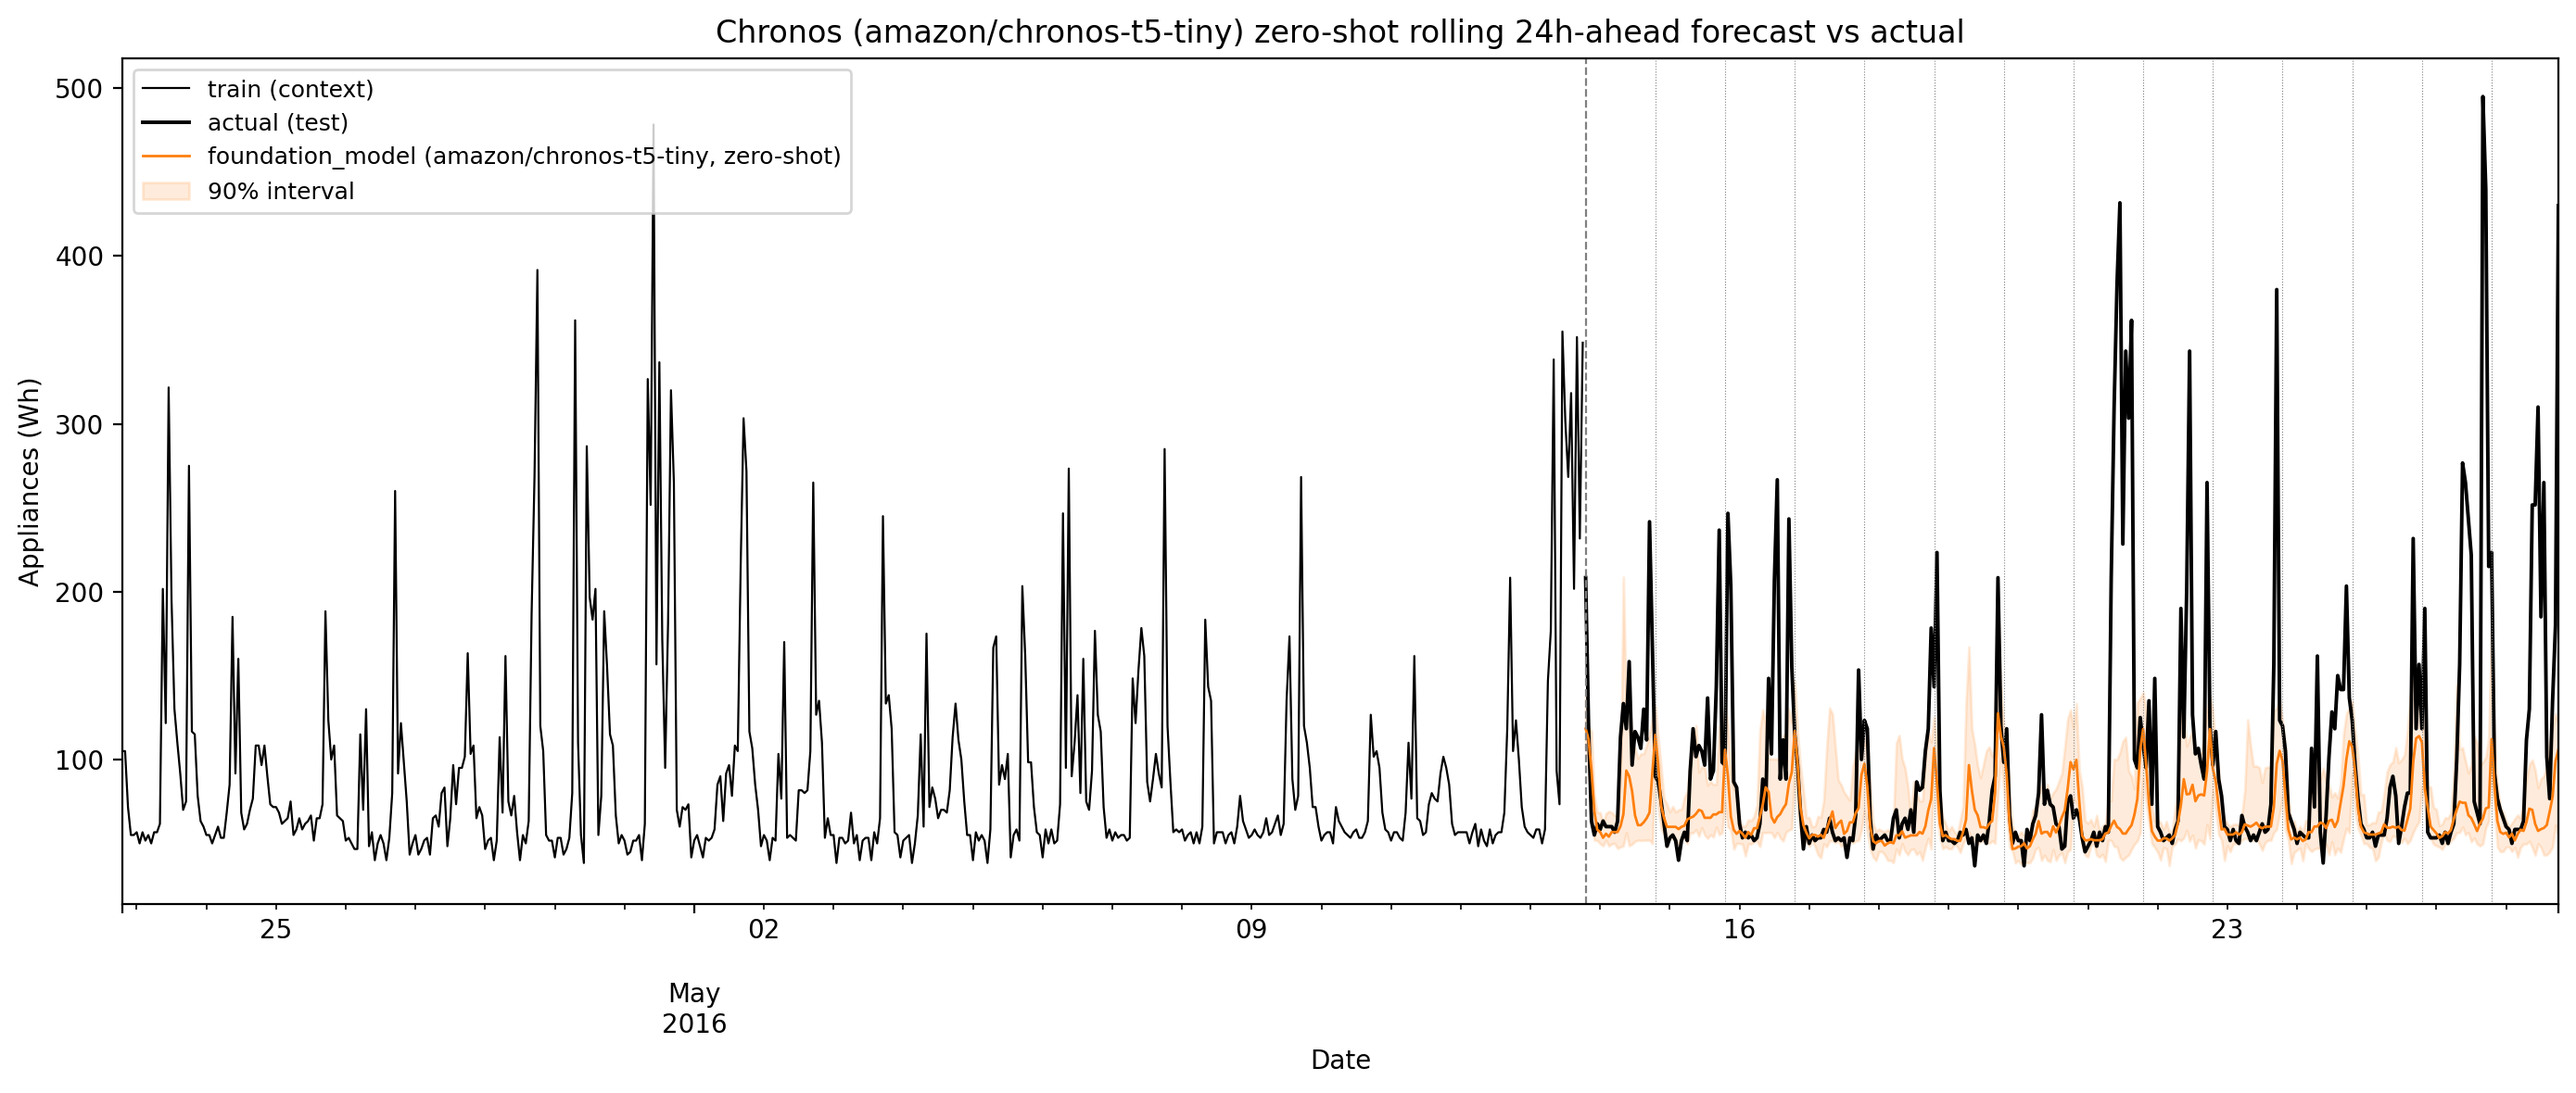
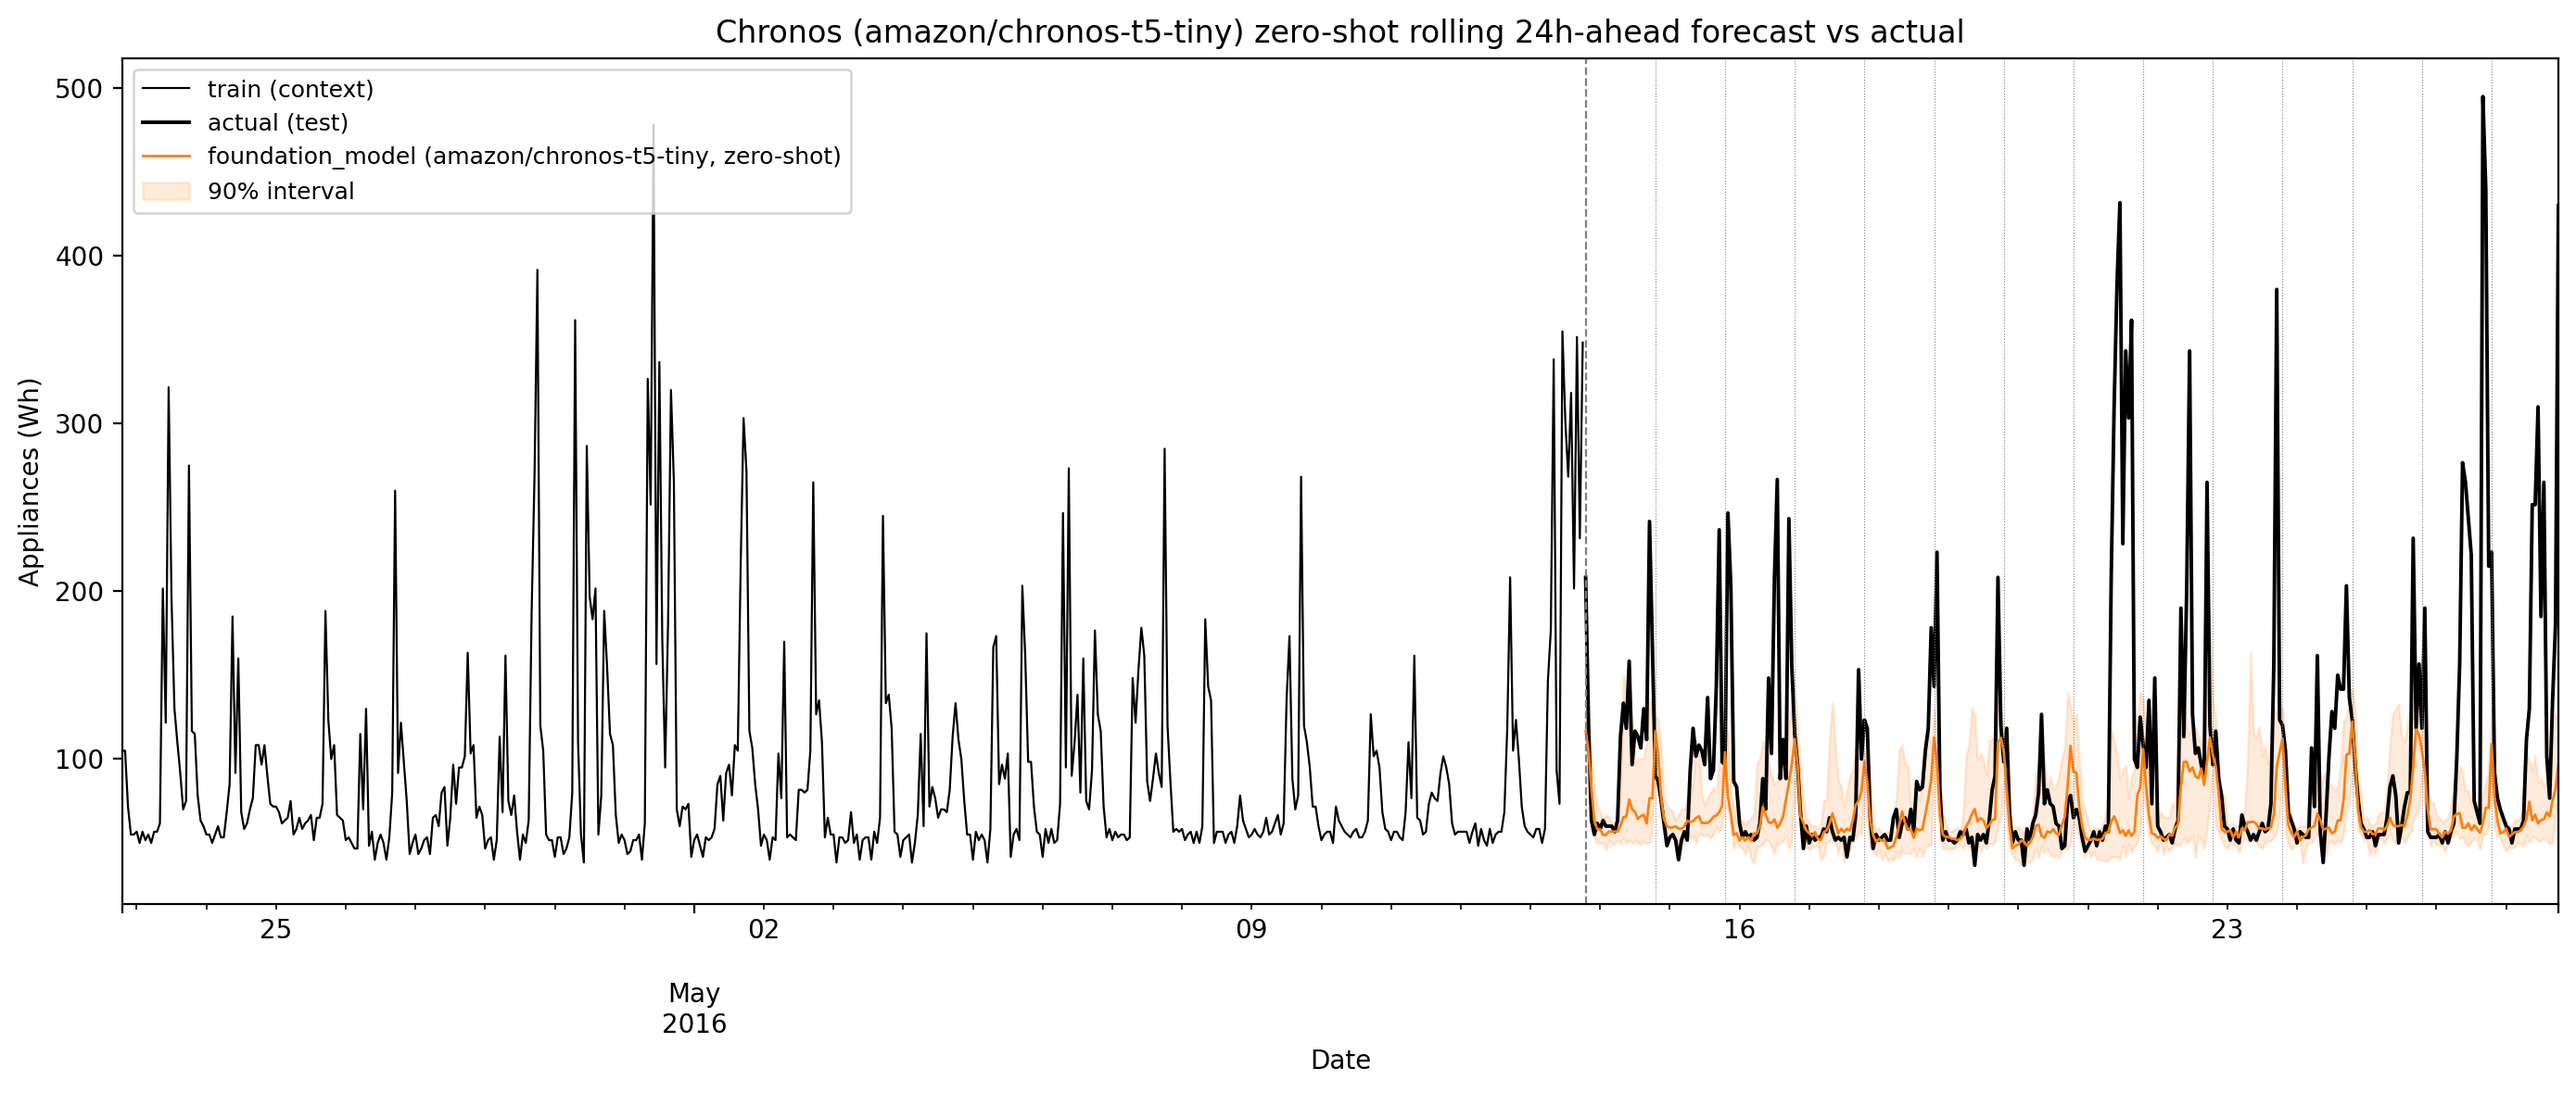
Part 8: full model comparison

Changed region(s): [[0.6189, 0.6407, 1.0, 0.7932]]

diff --git a/scripts/run_full_comparison.py b/scripts/run_full_comparison.py
@@ -1,0 +1,177 @@
+"""
+scripts/run_full_comparison.py
+
+Part 8: evaluate ALL models together -- common accuracy metrics (already in
+outputs/metrics/model_comparison.csv, one row per model), a single unified
+forecast plot, cross-model error diagnostics, and an explicit comparison
+against the strongest benchmark.
+
+Requires outputs/forecasts/all_forecasts.csv to already contain every
+model's forecast column (mean, naive, seasonal_naive_daily,
+seasonal_naive_weekly, drift, sarimax, sarimax_exog, feature_model,
+foundation_model) -- i.e. every model-specific script has already been run.
+
+Saves:
+    outputs/figures/all_models_forecast_comparison.png
+    outputs/figures/error_diagnostics.png
+    outputs/metrics/vs_strongest_benchmark.csv
+"""
+
+import sys
+import warnings
+from pathlib import Path
+
+import matplotlib.pyplot as plt
+import numpy as np
+import pandas as pd
+
+warnings.filterwarnings("ignore")
+
+sys.path.insert(0, str(Path(__file__).resolve().parents[1] / "src"))
+
+from appliance_energy.config import (
+    PROCESSED_DIR, FORECAST_DIR, METRICS_DIR, FIGURE_DIR,
+    TARGET, DAILY_PERIOD, TEST_STEPS,
+)
+from appliance_energy.evaluation import evaluate_all
+
+# All 8 forecasting models (excludes drift/naive from the headline plot's
+# main palette only where noted -- all are still in the metrics table).
+ALL_MODELS = [
+    "mean", "naive", "seasonal_naive_daily", "seasonal_naive_weekly", "drift",
+    "sarimax", "sarimax_exog", "feature_model", "foundation_model",
+]
+STRONGEST_BENCHMARK = "seasonal_naive_weekly"
+
+
+def load_hourly() -> pd.DataFrame:
+    df = pd.read_csv(PROCESSED_DIR / "appliance_hourly.csv", index_col="date", parse_dates=True)
+    return df.asfreq("h")
+
+
+def plot_all_models(train: pd.Series, test: pd.Series, all_forecasts: pd.DataFrame):
+    """Single plot: actual vs every model's forecast, over the test period."""
+    fig, ax = plt.subplots(figsize=(16, 7))
+
+    context = train.iloc[-DAILY_PERIOD * 10 :]
+    context.plot(ax=ax, label="train (context)", color="black", linewidth=0.7, alpha=0.6)
+    test.plot(ax=ax, label="actual (test)", color="black", linewidth=1.8)
+
+    colors = {
+        "mean": "tab:gray", "naive": "tab:orange", "drift": "tab:purple",
+        "seasonal_naive_daily": "tab:green", "seasonal_naive_weekly": "tab:olive",
+        "sarimax": "tab:red", "sarimax_exog": "mediumvioletred",
+        "feature_model": "tab:cyan", "foundation_model": "tab:brown",
+    }
+    for model in ALL_MODELS:
+        if model not in all_forecasts.columns:
+            continue
+        all_forecasts[model].plot(ax=ax, label=model, linewidth=0.9, alpha=0.75, color=colors.get(model))
+
+    for day_start in test.index[::DAILY_PERIOD][1:]:
+        ax.axvline(day_start, color="grey", linestyle=":", linewidth=0.3)
+    ax.axvline(test.index[0], color="grey", linestyle="--", linewidth=0.8)
+
+    ax.set_title("All models: rolling 24h-ahead forecasts vs actual, full 14-day test period")
+    ax.set_ylabel("Appliances (Wh)")
+    ax.set_xlabel("Date")
+    ax.legend(loc="upper left", fontsize=8, ncol=3)
+    fig.tight_layout()
+    fig.savefig(FIGURE_DIR / "all_models_forecast_comparison.png", dpi=200, bbox_inches="tight")
+    plt.close(fig)
+
+
+def plot_error_diagnostics(test: pd.Series, all_forecasts: pd.DataFrame):
+    """Two-panel error diagnostics across all models:
+    (1) boxplot of signed errors per model -- spread and bias at a glance.
+    (2) mean absolute error by day of the 14-day test period, per model --
+        does accuracy degrade as each day's forecast horizon effectively
+        "ages" within a block, or is any model consistently worse on
+        particular days (e.g. weekends)?
+    """
+    models = [m for m in ALL_MODELS if m in all_forecasts.columns]
+    errors = pd.DataFrame({m: all_forecasts[m] - test for m in models})
+
+    fig, axes = plt.subplots(1, 2, figsize=(16, 6))
+
+    # Panel 1: error distribution per model
+    axes[0].axhline(0, color="grey", linewidth=0.8, linestyle="--")
+    axes[0].boxplot(
+        [errors[m].dropna().values for m in models],
+        labels=models, showfliers=True, flierprops={"markersize": 3, "alpha": 0.4},
+    )
+    axes[0].set_title("Forecast error distribution per model (forecast - actual)")
+    axes[0].set_ylabel("Error (Wh)")
+    axes[0].tick_params(axis="x", rotation=45)
+
+    # Panel 2: MAE by day of the 14-day test period
+    day_of_test = np.repeat(np.arange(1, len(test) // DAILY_PERIOD + 1), DAILY_PERIOD)
+    errors["test_day"] = day_of_test[: len(errors)]
+    mae_by_day = errors.groupby("test_day")[models].apply(lambda g: g.abs().mean())
+
+    for m in models:
+        axes[1].plot(mae_by_day.index, mae_by_day[m], marker="o", markersize=3, linewidth=1, label=m)
+    axes[1].set_title("MAE by day of the 14-day rolling test period, per model")
+    axes[1].set_xlabel("Test day (1-14)")
+    axes[1].set_ylabel("MAE (Wh)")
+    axes[1].legend(fontsize=7, ncol=2)
+    axes[1].set_xticks(range(1, 15))
+
+    fig.tight_layout()
+    fig.savefig(FIGURE_DIR / "error_diagnostics.png", dpi=200, bbox_inches="tight")
+    plt.close(fig)
+
+    return mae_by_day
+
+
+def compare_to_strongest_benchmark(comparison: pd.DataFrame) -> pd.DataFrame:
+    """Add a column showing each model's % MAE improvement over the
+    strongest benchmark (seasonal_naive_weekly)."""
+    benchmark_mae = comparison.loc[comparison["model"] == STRONGEST_BENCHMARK, "MAE"].iloc[0]
+    out = comparison.copy()
+    out["pct_MAE_vs_strongest_benchmark"] = (
+        (benchmark_mae - out["MAE"]) / benchmark_mae * 100
+    ).round(1)
+    out["beats_strongest_benchmark"] = out["MASE"] < comparison.loc[
+        comparison["model"] == STRONGEST_BENCHMARK, "MASE"
+    ].iloc[0]
+    return out
+
+
+def main():
+    df = load_hourly()
+    y = df[TARGET]
+    train, test = y.iloc[:-TEST_STEPS], y.iloc[-TEST_STEPS:]
+
+    all_forecasts = pd.read_csv(FORECAST_DIR / "all_forecasts.csv", index_col="date", parse_dates=True)
+    missing = [m for m in ALL_MODELS if m not in all_forecasts.columns]
+    if missing:
+        raise ValueError(
+            f"all_forecasts.csv is missing columns for: {missing}. "
+            f"Run every model-specific script first (see report.md, Section 4-8)."
+        )
+
+    print("Generating unified forecast comparison plot...")
+    plot_all_models(train, test, all_forecasts)
+
+    print("Generating cross-model error diagnostics...")
+    mae_by_day = plot_error_diagnostics(test, all_forecasts)
+    print("\nMAE by test day (first/last 3 days shown):")
+    print(mae_by_day.iloc[[0, 1, 2, -3, -2, -1]].round(1).to_string())
+
+    print("\nComparing all models against strongest benchmark "
+          f"({STRONGEST_BENCHMARK})...")
+    comparison = evaluate_all(
+        test, {m: all_forecasts[m] for m in ALL_MODELS}, train
+    )
+    comparison_vs_benchmark = compare_to_strongest_benchmark(comparison)
+    comparison_vs_benchmark.to_csv(METRICS_DIR / "vs_strongest_benchmark.csv", index=False)
+    print("\n" + comparison_vs_benchmark.to_string(index=False))
+
+    print(f"\nSaved unified plot to {FIGURE_DIR / 'all_models_forecast_comparison.png'}")
+    print(f"Saved error diagnostics to {FIGURE_DIR / 'error_diagnostics.png'}")
+    print(f"Saved benchmark comparison to {METRICS_DIR / 'vs_strongest_benchmark.csv'}")
+
+
+if __name__ == "__main__":
+    main()

diff --git a/tests/test_full_comparison.py b/tests/test_full_comparison.py
@@ -1,0 +1,42 @@
+import sys
+from pathlib import Path
+
+import pandas as pd
+import pytest
+
+sys.path.insert(0, str(Path(__file__).resolve().parents[1] / "src"))
+
+
+def _toy_comparison():
+    return pd.DataFrame(
+        {
+            "model": ["sarimax", "seasonal_naive_weekly", "naive"],
+            "MAE": [38.0, 43.5, 85.5],
+            "RMSE": [65.7, 81.4, 110.4],
+            "MASE": [0.943, 1.077, 2.121],
+            "Bias": [-5.0, -13.2, 51.0],
+        }
+    )
+
+
+def test_pct_improvement_and_beats_flag():
+    sys.path.insert(0, str(Path(__file__).resolve().parents[1] / "scripts"))
+    from run_full_comparison import compare_to_strongest_benchmark
+
+    result = compare_to_strongest_benchmark(_toy_comparison())
+
+    sarimax_row = result[result["model"] == "sarimax"].iloc[0]
+    benchmark_row = result[result["model"] == "seasonal_naive_weekly"].iloc[0]
+    naive_row = result[result["model"] == "naive"].iloc[0]
+
+    # sarimax MAE 38.0 vs benchmark 43.5 -> ~12.6% improvement
+    assert sarimax_row["pct_MAE_vs_strongest_benchmark"] == pytest.approx(12.6, abs=0.1)
+    assert sarimax_row["beats_strongest_benchmark"] == True  # noqa: E712
+
+    # the benchmark compared to itself -> 0% improvement, doesn't "beat" itself
+    assert benchmark_row["pct_MAE_vs_strongest_benchmark"] == pytest.approx(0.0)
+    assert benchmark_row["beats_strongest_benchmark"] == False  # noqa: E712
+
+    # naive is much worse -> negative improvement, does not beat benchmark
+    assert naive_row["pct_MAE_vs_strongest_benchmark"] < 0
+    assert naive_row["beats_strongest_benchmark"] == False  # noqa: E712

diff --git a/reports/report.md b/reports/report.md
@@ -414,7 +414,60 @@ large spikes is the clear, specific weakness.
 
 ## 9. Results and error analysis
 
-*(to be written — Part 8/10)*
+**Full model comparison, ranked by MASE, with explicit comparison against
+the strongest benchmark** (`seasonal_naive_weekly`; see
+`outputs/metrics/vs_strongest_benchmark.csv`):
+
+| model | MAE | RMSE | MASE | Bias | % MAE vs. strongest benchmark | Beats strongest benchmark? |
+|---|---|---|---|---|---|---|
+| sarimax | 38.1 | 65.7 | 0.943 | -5.0 | +12.4% | ✅ |
+| foundation_model | 38.7 | 78.3 | 0.959 | -33.7 | +11.0% | ✅ |
+| sarimax_exog | 39.7 | 65.8 | 0.984 | +1.5 | +8.7% | ✅ |
+| feature_model | 42.5 | 66.9 | 1.054 | +0.8 | +2.1% | ✅ |
+| seasonal_naive_weekly | 43.5 | 81.4 | 1.077 | -13.2 | — | (itself) |
+| seasonal_naive_daily | 48.3 | 85.6 | 1.198 | +1.8 | -11.2% | ❌ |
+| mean | 50.3 | 74.9 | 1.246 | -3.3 | -15.6% | ❌ |
+| naive | 85.6 | 110.4 | 2.121 | +51.0 | -96.9% | ❌ |
+| drift | 85.8 | 110.7 | 2.127 | +51.4 | -97.4% | ❌ |
+
+All four "advanced" models (SARIMAX target-only, Chronos, SARIMAX-exog,
+XGBoost) beat the strongest benchmark on MASE; none of the five benchmark
+models do better than `seasonal_naive_weekly` itself. The ranking is
+consistent whether measured by MASE or by % MAE improvement, which is a
+useful sanity check — the two metrics agree on model ordering even though
+they're scaled differently.
+
+**Error distribution per model** (`error_diagnostics.png`, left panel):
+SARIMAX and the feature-based model have the tightest, most centred error
+boxes (narrow interquartile range, median close to zero) — the "best
+individual-hour behaviour" view, not just best on-average. `naive` and
+`drift` are dramatically worse in both spread and median offset, both
+sitting clearly above zero (systematic over-forecasting — a direct visual
+confirmation of their large positive Bias values in the table above).
+`foundation_model`'s box is visibly shifted *below* zero relative to
+everything except `seasonal_naive_weekly`, matching its large negative
+Bias — a distinct failure mode from `naive`/`drift`'s over-forecasting.
+
+**MAE by day of the 14-day test period** (`error_diagnostics.png`, right
+panel) surfaces something the aggregate metrics alone hide: `naive` and
+`drift`'s catastrophic day-1 error (MAE > 240, an order of magnitude worse
+than every other model that day) is almost entirely a **single-origin
+artefact** — the last training-set hour happened to be an unusually high
+spike (~350 Wh), and since these two benchmarks are flat/linear
+extrapolations from that one value with no seasonal correction, day 1 pays
+the full cost of that one unlucky observation. By day 2 they've already
+partially recovered (dropping toward 80-110), because the rolling design
+lets them re-anchor on a fresh (more typical) value each day — this is
+direct visual evidence for why the rolling walk-forward design (Section 4)
+matters: a single-origin, non-rolling evaluation would have let one unlucky
+training-set endpoint distort the *entire* 336-hour verdict on these
+models, not just one day of it. It's also worth noting `seasonal_naive_weekly`
+— the strongest *average* benchmark — has its own bad day (day 7, MAE ≈ 98,
+worse than every other model that day): "strongest benchmark" is a
+statement about the average across the test period, not a guarantee of
+being best on every individual day, and the four advanced models are
+visibly more *consistently* good across all 14 days (no single-day spikes
+of their own) than any of the five benchmarks.
 
 ## 10. Discussion and limitations
 
